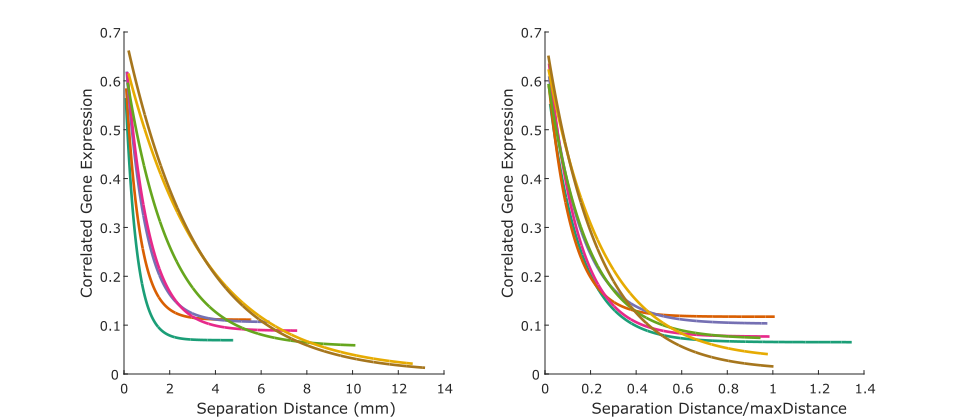
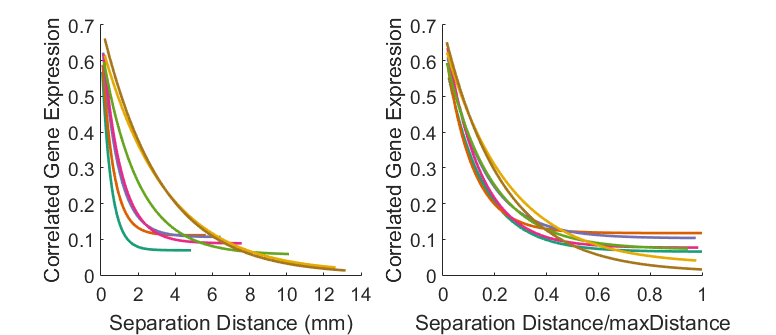
Corrected regression lines in Fig 3

Changed region(s): [[0.4948, 0.0597, 0.9588, 1.0], [0.0309, 0.0597, 0.4948, 1.0]]

diff --git a/Analysis/plotConstant.m b/Analysis/plotConstant.m
@@ -176,7 +176,7 @@ for i=1:length(timePoints)
         disp(sprintf('%s : %d', whatConstantOut,constantOut(i))) % display decay constant in command window
 
       end
-      
+
       % display adjusted R square
       if displayAdjR
         disp(sprintf('Ajusted R square : %d', fitting_stat_all.(timePoints{i}).adjRSquare.exp))
@@ -184,10 +184,8 @@ for i=1:length(timePoints)
       hold('on')
   end
     if linearRegress % plot linear regression line
-        b1 = maxDistance\constantOut;
-        yCalc1 = b1*maxDistance;
-        plot(maxDistance,yCalc1);
-        disp(sprintf('regression coefficient : %d', b1))
+        [f_handle,Stats,c] = GiveMeFit(maxDistance,constantOut,'linear',true);
+        plot(maxDistance,f_handle(maxDistance))
     end
     % compute correlation coefficient
     corrCoeff = extractDistances(corrcoef(maxDistance,constantOut));
